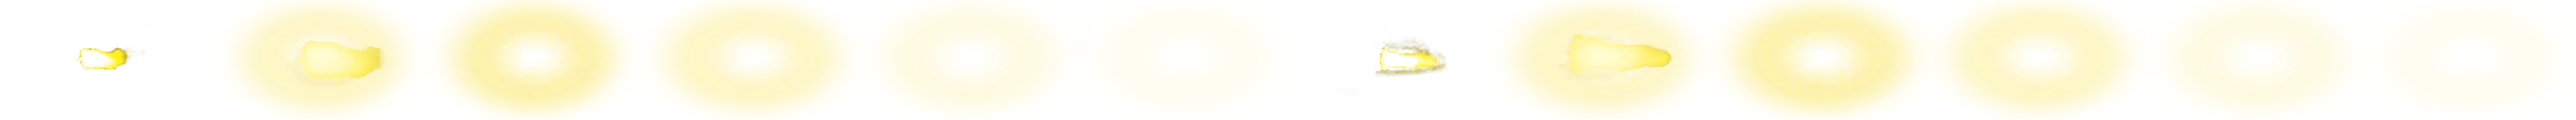
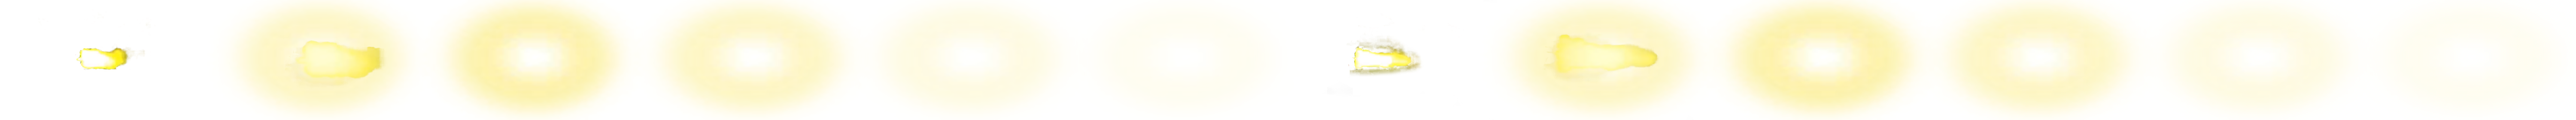
fixes

Changed region(s): [[0.5922, 0.2847, 0.6545, 0.6263], [0.4987, 0.3416, 0.561, 0.6263]]

diff --git a/src/library/shared/CustomLayerExplosion.js b/src/library/shared/CustomLayerExplosion.js
@@ -11,6 +11,14 @@ class CustomLayerExplosion extends document.kcs_LayerExplosion.LayerExplosion {
         attackerInfo,
         callback
     ) {
+        //bullet
+        this._emitBullet(
+            attackerPosX, attackerPosY,
+            defenderPosX, defenderPosY,
+            this.attackExplosionDuration,
+            callback
+        )
+
         //attack sfx
         const fireGunInfo = [
             {type: ExplosionType.SMALL, default:"fire_gun2"},
@@ -29,7 +37,7 @@ class CustomLayerExplosion extends document.kcs_LayerExplosion.LayerExplosion {
         var anim = new PIXI.extras.AnimatedSprite(frames);
         anim.loop = false;
         anim.animationSpeed = 0.25;
-        anim.anchor.set(0.36,0.5); //depends of texture size
+        anim.anchor.set(0.40,0.5); //depends of texture size
         anim.position.set(attackerPosX, attackerPosY)
         anim.rotation = Math.atan2(defenderPosY - attackerPosY, defenderPosX - attackerPosX)
         anim.onComplete = ()=>{
@@ -37,14 +45,6 @@ class CustomLayerExplosion extends document.kcs_LayerExplosion.LayerExplosion {
         }
         this.addChild(anim);
         anim.play();
-
-        //bullet
-        this._emitBullet(
-            attackerPosX, attackerPosY,
-            defenderPosX, defenderPosY,
-            this.attackExplosionDuration,
-            callback
-        )
     }
 
     //impact

diff --git a/src/library/shared/CustomPhaseAttackHelper.js b/src/library/shared/CustomPhaseAttackHelper.js
@@ -8,7 +8,7 @@ class CustomPhaseAttackHelper {
 
     _completePreload(callback){
         this._loader = new PIXI.loaders.Loader
-        this._loader.add(document.kcs_extensionUrl + "resources/default_effects/img/battle/explosio_large_w.json")
+        this._loader.add(document.kcs_extensionUrl + "resources/default_effects/img/battle/explosion_large_w.json")
         this._loader.add(document.kcs_extensionUrl + "resources/default_effects/img/battle/attack_middle.json")
         this._loader.add("bullet_middle", document.kcs_extensionUrl + "resources/default_effects/img/battle/bullet_middle.png")
         this._loader.load((t) => {

diff --git a/src/library/shared/CustomExplosion.js b/src/library/shared/CustomExplosion.js
@@ -42,7 +42,7 @@ class CustomExplosion extends PIXI.Container {
     }
 
     _getTexture(current_frame) {
-        return PIXI.Texture.from(`explosio_large_w_${current_frame}`)
+        return PIXI.Texture.from(`explosion_large_w_${current_frame}`)
     }
 
     _setImageOffset(current_frame) {
